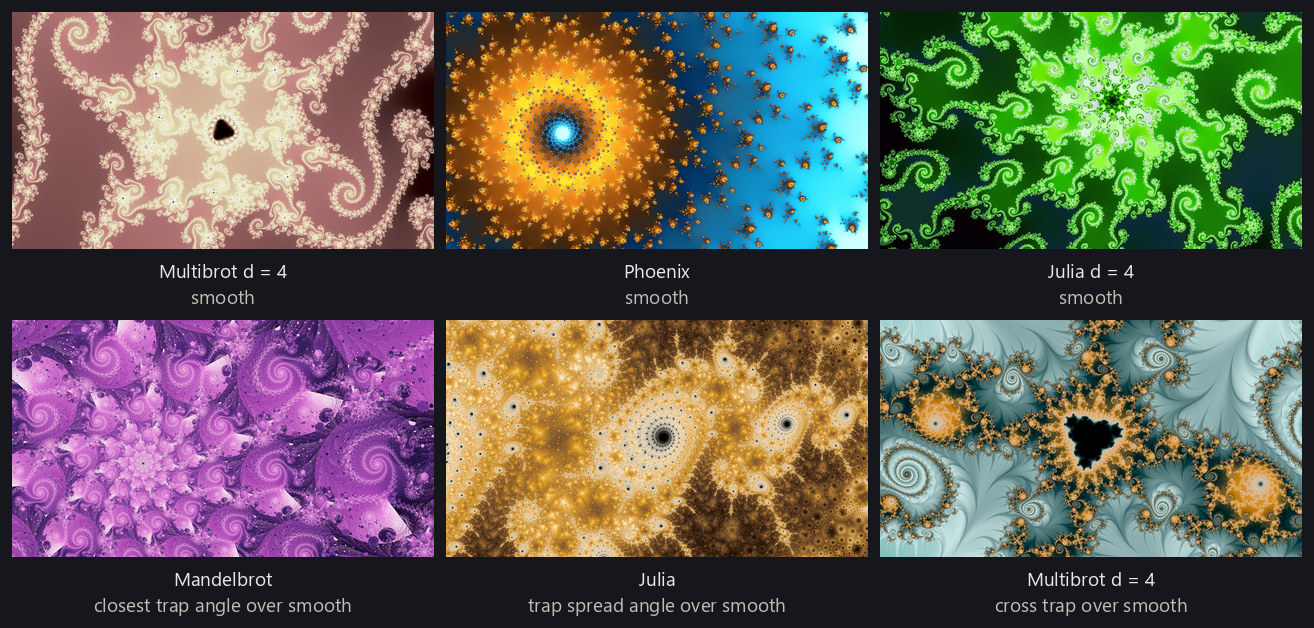
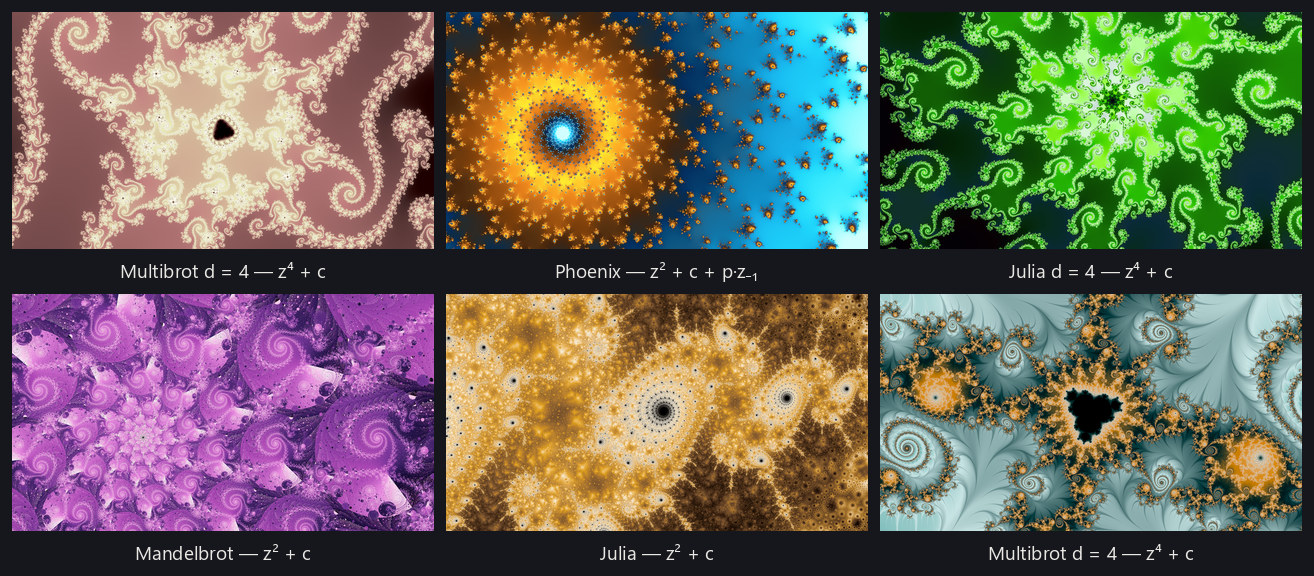
Overview v2 placed, and the opening figure names each family by its formula
The second reviewer pass over the Overview arrived as eighteen corrections and
two questions; they were adjudicated into a master before this round, and the
master is what is placed. The logistics paragraph moves to the foot, with one
explorer-permalink sentence kept early because the first figure sits above the
first paragraph; the three rhetorical questions become three named decisions;
a location is family, constants and frame, matching Finding good locations; the
curation summary drops "quality first and then under constraints" and "every
rendering mode represented"; the cumulative-state claim narrows, because
candidate renders are pruned. The body carried eighteen em-dashes and carries
none. Both captions are rewritten in the registry.

The verification foot was worked against the code next door and corrected no
prose: the three curation claims hold against curation.solve and rules, the
candidate and release geometries are 640x360 ss2 and 2560x1440 ss4, and a
location is keyed by family plus a viewport of centre and width. Correction 14
also claimed mode floors precede quality optimization in the solve. They do not
- a floor is a soft demand in tier 2 of a lexicographic objective - and that
reading is nowhere in the master or the page.

overview-gallery-hook is redrawn: the rendering mode is off its tile labels,
which the caption already says, and the line that remains carries the family
and the iteration it runs, the way escape-families labels its plane tiles.
[…]

diff --git a/article/overview.html b/article/overview.html
@@ -49,96 +49,88 @@
 <main>
   <section class="prose">
       <figure class="figure" data-figure="overview-gallery-hook">
-        <a class="figure-open" href="../explorer/index.html?v=2&amp;f=multibrot4&amp;x=0.3190049359670787&amp;y=0.7493803355819899&amp;w=0.00000030536169435018664&amp;p=pink&amp;mirror=1" title="open in fractal explorer" aria-label="open in fractal explorer"><img src="../assets/images/figures/overview-gallery-hook.jpg" width="1314" height="628" alt="Six finished wallpapers: three drawn in the smooth rendering along the top row, three in alternative rendering styles below."><span class="figure-open-mark" aria-hidden="true">↗</span></a>
-        <figcaption>Wallpapers found by this project's fractal search. The search finds a good location on its own, tries many different color palettes and ways to render it, and a trained judge decides it is worth keeping. The top row is the classic smooth rendering; the bottom row is three of the alternative rendering styles.</figcaption>
+        <a class="figure-open" href="../explorer/index.html?v=2&amp;f=multibrot4&amp;x=0.3190049359670787&amp;y=0.7493803355819899&amp;w=0.00000030536169435018664&amp;p=pink&amp;mirror=1" title="open in fractal explorer" aria-label="open in fractal explorer"><img src="../assets/images/figures/overview-gallery-hook.jpg" width="1314" height="576" alt="Six finished wallpapers: three drawn in the smooth rendering along the top row, three in alternative rendering styles below."><span class="figure-open-mark" aria-hidden="true">↗</span></a>
+        <figcaption>Wallpapers produced by the fractal search. The pipeline finds promising locations automatically, renders them under many palettes and rendering modes, and uses trained judges to score both the locations and the finished images. The top row uses the smooth rendering; the bottom row shows three alternative rendering modes.</figcaption>
       </figure>
 
-    <p>For many years my desktop background has cycled through a collection of
-    <a href="https://en.wikipedia.org/wiki/Fractal">fractal</a>
-    wallpapers gathered from around the internet — but seeing the same wallpapers over and
-    over grew a bit repetitive, and my daughter was fascinated specifically by dark pink
-    fractals, so I've spent some time thinking about writing a program to automatically
-    find, colorize, and stylize fractals. A great fractal wallpaper is the
-    product of several artistic stages — choosing a location and a framing, picking and
-    aligning palettes, stylizing, layered post-processing — craft that is usually done by
-    hand, in tools like <a href="https://en.wikipedia.org/wiki/Ultra_Fractal">UltraFractal</a>
-    or <a href="https://www.chaoticafractals.com/">Chaotica</a>. This project doesn't try to
-    match that level of hand-tuned artistry on any single image. The goal is a system that
-    produces a rich and growing set of good wallpapers, spanning a wide range of structures,
-    <i>fractal families</i>, color styles, and rendering effects. Drawing a fractal turns out
-    to be only a tiny part of that. This site goes over how we decide where to point the
-    camera, how to draw what it sees, and which of the results are worth keeping. Everything on this site lives in the flat complex
-    plane — two-dimensional
-    <a href="escape-time-fractals.html">escape-time fractals</a>. There are other beautiful
-    fractal worlds this project doesn't touch, among them the 3D
+    <p>For many years my desktop background cycled through
+    <a href="https://en.wikipedia.org/wiki/Fractal">fractal</a> wallpapers gathered from around
+    the internet. Seeing the same ones over and over grew repetitive, and my daughter was
+    fascinated specifically by dark pink fractals, so I built a program to find, color, and
+    stylize new ones automatically. Producing a finished fractal wallpaper involves several
+    artistic choices: picking a location, selecting and aligning palettes, stylizing, and
+    layering post-processing. That work is usually done by hand, in tools like
+    <a href="https://en.wikipedia.org/wiki/Ultra_Fractal">UltraFractal</a> or
+    <a href="https://www.chaoticafractals.com/">Chaotica</a>. This project doesn't try to match
+    that level of hand-tuned artistry on any single image. The goal is a system that continually
+    produces wallpapers I would want to use, spanning a wide range of structures, <i>fractal
+    families</i>, color styles, and rendering effects. Computing the fractal itself is only a
+    small part of that. The system also has to decide where to point the camera, how to turn
+    what it sees into an image, and which of the results are worth keeping. Everything here
+    lives in the flat complex plane: two-dimensional
+    <a href="escape-time-fractals.html">escape-time fractals</a>. Other beautiful fractal worlds
+    are outside its scope, among them the 3D
     <a href="https://en.wikipedia.org/wiki/Mandelbulb">Mandelbulb</a>,
     <a href="https://en.wikipedia.org/wiki/Fractal_flame">fractal flames</a>, and
-    <a href="https://paulbourke.net/fractals/quatjulia/">quaternion Julia sets</a> rendered in
-    four dimensions.</p>
+    <a href="https://paulbourke.net/fractals/quatjulia/">quaternion Julia sets</a>.</p>
 
-    <p>Everything here is backed by a working open-source repository,
-    <a href="https://github.com/techmatt/fractal-wallpapers">fractal-wallpapers</a>, and
-    every image on this site came out of it. The same renderer is also compiled to run in a
-    browser, so the <a href="../explorer/index.html">fractal explorer</a> draws these
-    fractals live on this site — every family, each rendering mode the article describes,
-    and a broad selection of palettes, panned and zoomed by hand — and most pictures on
-    these pages carry a link that opens the explorer at exactly the view you are looking
-    at. The finished wallpapers will be published here as
-    <a href="../galleries/index.html">galleries</a>, free to download at full resolution.
-    You can also run the project yourself, use the trained models and the labeled datasets
-    behind them, or read on for the technical details.</p>
+    <p>Most pictures on these pages carry a link that opens the
+    <a href="../explorer/index.html">fractal explorer</a> at exactly the view you are looking
+    at.</p>
 
-    <p>Making this work means answering three genuinely interesting questions, and the
-    system is organized around them. Where in an infinite plane do you point the camera —
-    and how far do you zoom — to find promising material? Given a <i>location</i> — a center
-    and a width in the complex plane — which of many rendering styles and <i>palettes</i>
-    will suit it? And out of thousands of finished candidates, which set is worth keeping?
-    Each question is one part of a <i>pipeline</i>, and each part feeds the next:</p>
+    <p>The system is organized around three decisions. Which <i>location</i> to render: a
+    fractal family, its constants, and a frame in the complex plane. Which rendering mode and
+    which <i>palette</i> to use there. And which of the finished candidates belong in the
+    gallery. Each decision is one part of a <i>pipeline</i>, and each part feeds the next:</p>
 
       <figure class="figure" data-figure="overview-pipeline">
         <a class="figure-open" href="../explorer/index.html?v=2&amp;f=multibrot4&amp;x=0.3407452442528424&amp;y=0.931615414985041&amp;w=0.00000006344276705989817&amp;p=twilight_shifted" title="open in fractal explorer" aria-label="open in fractal explorer"><img src="../assets/images/figures/overview-pipeline.jpg" width="1344" height="1017" alt="The three parts of the pipeline stacked down the page: three locations a walk found, drawn in neutral colors; one of them colored through four different palettes with the kept one marked; and three finished wallpapers of the gallery a solve chose."><span class="figure-open-mark" aria-hidden="true">↗</span></a>
-        <figcaption>The pipeline end to end. A guided walk finds locations worth drawing and the location judge scores them; one of those frames is then drawn many ways — a rendering mode and a palette to each attempt, with the tones balanced — and the render judge scores what comes back; and a gallery is chosen out of the pool those attempts fill. The first location of the top band is followed down the sheet: colored four ways in the middle band, where the marked panel is the coloring the run kept, and seated in the gallery at the foot.</figcaption>
+        <figcaption>Pipeline overview. A guided walk proposes locations, which the location judge scores. Admitted locations are rendered under many rendering mode and palette combinations with automatic tone balancing, and the render judge scores the resulting images. Gallery curation then chooses a set out of the candidate pool. The first location in the top band is traced through the remaining stages: four colorings appear in the middle band, with the retained one marked, and that picture appears again in the gallery below.</figcaption>
       </figure>
 
-    <p><a href="finding-good-locations.html">Finding good locations</a> — a guided walk
-    through each fractal family descends toward structure and away from both emptiness and
-    pure chaos, scoring neighborhoods as it goes
-    with a small <a href="https://en.wikipedia.org/wiki/Neural_network_%28machine_learning%29">neural network</a> trained on my ratings of what makes
-    promising wallpaper material. What it keeps is a growing pool of locations, each
-    recorded as a frame in the complex plane and nothing more — no colors yet, no style
+    <p><a href="finding-good-locations.html">Finding good locations</a>: a guided walk through
+    each fractal family descends toward structure and away from both emptiness and pure chaos. A
+    small <a href="https://en.wikipedia.org/wiki/Neural_network_%28machine_learning%29">neural
+    network</a> trained to predict my ratings of location quality scores each candidate as the
+    walk goes. What it keeps is a growing pool of locations, each recorded as a frame in the
+    complex plane and nothing more: no colors yet, no style
     (<a href="training-judges.html">training judges</a>).</p>
 
-    <p><a href="finding-good-wallpapers.html">Finding good wallpapers</a> — each
-    location in the pool is then drawn many ways: in several <i>rendering modes</i>, from
-    the classic smooth coloring to stranger styles, and under a spread of palettes, with
-    the picture's tones balanced automatically. A second neural network, trained on my
-    ratings of finished pictures, scores each attempt, and every attempt joins a pool of
+    <p><a href="finding-good-wallpapers.html">Finding good wallpapers</a>: each location in the
+    pool is then drawn many ways, in several <i>rendering modes</i> and under a spread of
+    palettes, with the picture's tones balanced automatically. A second neural network, trained
+    on my ratings of finished pictures, scores each attempt, and every attempt joins a pool of
     candidate wallpapers with its score attached
     (<a href="rendering-fundamentals.html">rendering fundamentals</a>,
-    <a href="rendering-modes.html">rendering modes</a>,
-    <a href="color-palettes.html">color palettes</a>).</p>
+    <a href="rendering-modes.html">rendering modes</a>, <a href="color-palettes.html">color
+    palettes</a>).</p>
 
-    <p><a href="gallery-curation.html">Gallery curation</a> —
-    a gallery of any size is chosen out of that pool, for quality first and then under
-    constraints on the set as a whole: no near-duplicates of one view, no single family of
-    color crowding out the rest, every rendering mode represented.</p>
+    <p><a href="gallery-curation.html">Gallery curation</a>: a gallery of any size is chosen out
+    of that pool, under constraints on quality and on the set as a whole. Near-duplicate
+    pictures are collapsed, no single family of color crowds out the rest, and each rendering
+    mode gets a minimum share of the gallery when the pool can supply it.</p>
 
-    <p>The <a href="full-pipeline.html">full pipeline</a> page shows the three parts
-    running end to end.</p>
+    <p>Two ideas run through all three parts. The neural networks (the <i>judges</i>) stand in
+    for my taste at every point where a machine has to decide whether something is good; I rated
+    by my own wallpaper preferences, and fine-tuning toward other tastes would be
+    straightforward. And the useful state is cumulative: the location pool only grows, and each
+    location keeps its strongest candidate renders, so curation can always be re-run over
+    everything accumulated so far.</p>
 
-    <p>Two ideas run through all three parts. The neural networks — the <i>judges</i> —
-    stand in for my taste at every point where a machine has to decide whether something is
-    good; I rated by my own wallpaper preferences, and fine-tuning toward other tastes would
-    be straightforward. And what the project finds, it keeps: the location pool only grows,
-    and the best candidates at every location are kept, so the curation part can always be
-    re-run over everything the project has ever found.</p>
+    <p>The whole system (search, rendering, training, curation) was built to run unattended on a
+    single desktop machine with one ordinary GPU. Every candidate the pipeline judges is drawn
+    small; a wallpaper that ships is rendered again at full size, with several samples to a
+    pixel, so the collection can be regenerated at any resolution without repeating the
+    search.</p>
 
-    <p>Each section is written to be readable independently. Nothing here requires more than
-    a single desktop machine with one ordinary GPU. The whole system — search, rendering,
-    training, curation — was built to run unattended on fairly standard hardware. Every
-    candidate the pipeline judges is drawn small; a wallpaper that ships is rendered again
-    on a larger frame, with several samples to a pixel, and re-rendering the collection at a
-    different resolution is easy.</p>
+    <p>Everything here is backed by a working open-source repository,
+    <a href="https://github.com/techmatt/fractal-wallpapers">fractal-wallpapers</a>, and every
+    image on this site came out of it. The same renderer is also compiled to run in a browser,
+    which is what draws the fractal explorer live on this site: every family, each rendering
+    mode the article describes, and a broad selection of palettes, panned and zoomed by hand.
+    The repository includes the code, the trained models, and the labeled datasets behind them.
+    The finished wallpapers will be published here as
+    <a href="../galleries/index.html">galleries</a>, free to download at full resolution.</p>
   </section>
 
   <nav class="section-nav">

diff --git a/builder/picks.py b/builder/picks.py
@@ -645,6 +645,43 @@ def family_name(family: dict) -> str:
     return {"mandelbrot": "Mandelbrot", "phoenix": "Phoenix"}.get(kind, str(kind))
 
 
+#: The iteration each family runs, spelled the way `escape-families` spells it under its
+#: own tiles: the article's formula with the step subscripts dropped, which is what makes
+#: it short enough to sit under a picture *(Matt, 2026-09-06)*. Phoenix keeps one
+#: subscript because it is the only family that reaches back a step, and that reach is the
+#: whole of what its formula says. A Julia's iteration is its plane's iteration — what
+#: differs is which of `z` and `c` the pixel moves — so the two spell one formula here,
+#: exactly as [escape-time fractals] teaches them.
+FAMILY_FORMULA = {
+    "mandelbrot": "z² + c",
+    "phoenix": "z² + c + p·z₋₁",
+}
+
+#: Superscript digits for a multibrot's degree, which is a whole number in every family
+#: this figure can seat. A fractional degree has no spelling here and asks for one.
+SUPERSCRIPT = str.maketrans("0123456789", "⁰¹²³⁴⁵⁶⁷⁸⁹")
+
+
+def family_formula(family: dict) -> str:
+    """The iteration one family runs, for a tile label that shows it beside the name."""
+    kind = family.get("kind")
+    if kind in FAMILY_FORMULA:
+        return FAMILY_FORMULA[kind]
+    degree = family.get("degree", 2)
+    if int(degree) != degree:
+        raise PickError(
+            f"no formula for {kind} at degree {degree} — a fractional degree has no "
+            f"superscript to write it with, so add a spelling to {__name__}.FAMILY_FORMULA "
+            "before seating one under a label that shows the iteration"
+        )
+    return f"z{str(int(degree)).translate(SUPERSCRIPT)} + c"
+
+
+def family_with_formula(family: dict) -> str:
+    """A family as the article names it, and the iteration it runs, on one line."""
+    return f"{family_name(family)} — {family_formula(family)}"
+
+
 def mode_words(mode: str) -> str:
     """What a tile calls a rendering mode, or a refusal naming the mode with no wording."""
     if mode not in MODE_WORDS:
@@ -662,8 +699,13 @@ def mode_words(mode: str) -> str:
 HOOK_COLUMNS = 3
 HOOK_ROWS = 2
 
-#: How many lines a tile label under the hook carries: the family, then the rendering.
-HOOK_LABEL_LINES = 2
+#: How many lines a tile label under the hook carries: the family and the iteration it
+#: runs, and nothing else *(Matt, 2026-09-06)*. It used to name the rendering underneath,
+#: and the caption already says which row is smooth and which is not — a mode name under
+#: every tile of the article's opening figure spends a reader's first look on vocabulary
+#: the page has not taught yet. The formula went on in the same round, the way
+#: `escape-families` carries one, so the opening picture says what a family *is*.
+HOOK_LABEL_LINES = 1
 
 #: The Rendering modes roster, in the engine catalog's own order — the order the page's
 #: own scoreboard reads in, and the order the sheet draws. Spelled here rather than read
@@ -786,7 +828,7 @@ def gallery_hook() -> Drawn:
             draw,
             origin,
             size,
-            [family_name(pick.family), mode_words(pick.mode)],
+            [family_with_formula(pick.family)],
             sheet.width,
         )
     destination = sheets.save(sheet, sheet_path(identifier))

diff --git a/docs/page-review.md b/docs/page-review.md
@@ -178,7 +178,7 @@ noticing. Everything in the table is read off `article/sections.jsonl`,
 editing a cell by hand.
 
 **The whole-site prose refresh is complete, 2026-09-02.** Eight sections are placed and
-mastered — Overview v1, Rendering modes v1, Finding good wallpapers v2, Gallery curation
+mastered — Overview v2, Rendering modes v1, Finding good wallpapers v2, Gallery curation
 v1, Training judges v5, Finding good locations v5, Color palettes v5, Full pipeline v3 —
 with every current master at the root of `prose\` and everything they superseded moved to
 `prose\old\`. `Running at scale` is dead: Matt trashed both its masters and no page
@@ -233,7 +233,7 @@ faster machine, a rebuilt engine or a different worker count moves every cell.
 
 | page | written | prose master | last review round | figures | what is held, and why |
 | --- | --- | --- | --- | --- | --- |
-| `overview.html` | yes | `Overview v1.md` | none | 2 placed | — |
+| `overview.html` | yes | `Overview v2.md` | none | 2 placed | **v2 placed 2026-09-06** (PLACE_overview_v2_0906), out of a second reviewer pass whose eighteen corrections were adjudicated into the master before it arrived. The logistics paragraph — repository, browser renderer, galleries — moves to the foot, with one sentence about explorer permalinks kept early because the first figure sits above the first paragraph; the three rhetorical questions become three named decisions; *location* is redefined as family, constants and frame, which is what [finding good locations] already teaches; the curation summary drops *quality first and then under constraints* and *every rendering mode represented*; and the cumulative-state claim is narrowed, because candidate renders are pruned and only each location's strongest survive. The body carried eighteen em-dashes and now carries none. **Both captions were rewritten with it**, in the registry, and are em-dash free. Three of the reviewer's corrections were deliberately not taken as written: its own unspaced em-dashes, its reasoning that mode floors precede quality optimization in the solve (they do not — a floor is a soft `Demand` in tier 2 of `curation.solve`'s lexicographic objective, and nothing is ever seated by relaxing a rule it failed), and *strange* as vocabulary. **The pipeline figure's drawn-in text now runs behind its caption**: the sheet still letters *quality first, then range* and *color balance · every mode*, which is the reading the new prose corrects, and clearing it is a redraw rather than an edit. **`overview-gallery-hook` was redrawn in the same round** *(Matt, 2026-09-06)*: its tile labels carried the family and then the rendering, and the mode line is gone — `builder/picks.py`'s `HOOK_LABEL_LINES` is 1 and the sheet is 1314×576 where it was 1314×628. The caption already says which row is smooth and which is not. The one line left now carries **the family and the iteration it runs**, the way `escape-families` carries one under each of its plane tiles: `family_with_formula` and the `FAMILY_FORMULA` table beside it, with the step subscripts dropped and Phoenix keeping the one subscript that is the whole of what its formula says. A Julia is spelled with its plane's own iteration, since what differs is which of `z` and `c` the pixel moves. No pick changed and no panel was re-rendered from a different recipe |
 | `escape-time-fractals.html` | yes | none — the HTML is its own master | none | 7 placed | — |
 | `rendering-fundamentals.html` | yes | none — the HTML is its own master | none | 6 placed | — |
 | `rendering-modes.html` | yes | `Rendering modes v3.md` | none | 13 placed | **the prose pass is done**: v3 placed 2026-09-04 over v2 of the same day, and the page carries twelve per-mode figures — one 2×2 a mode, `smooth` beside the mode at two locations, off Matt's picks from the recorded gallery `20260904T023748Z` — each one directly after its mode's paragraph, plus `modes-gallery`. v3 drops the *One judge, two kinds* section and replaces the kept-out-of-tried scoreboard with a **quality distribution** read off the candidate ledger's score sidecar rather than off the label stores: see the note below. v3 also carries the retirement above |
